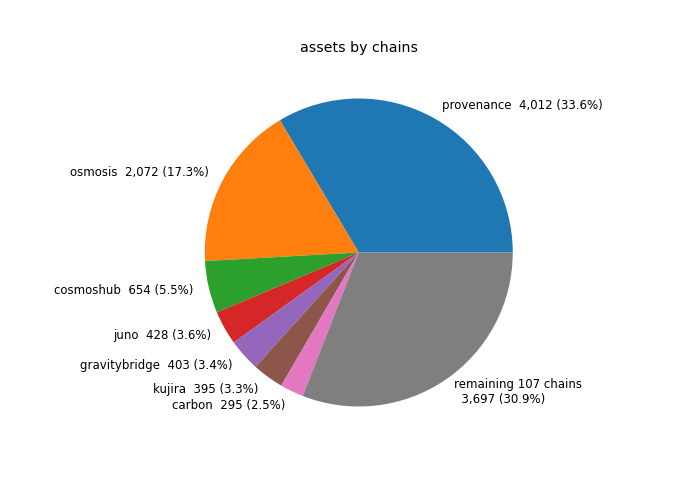
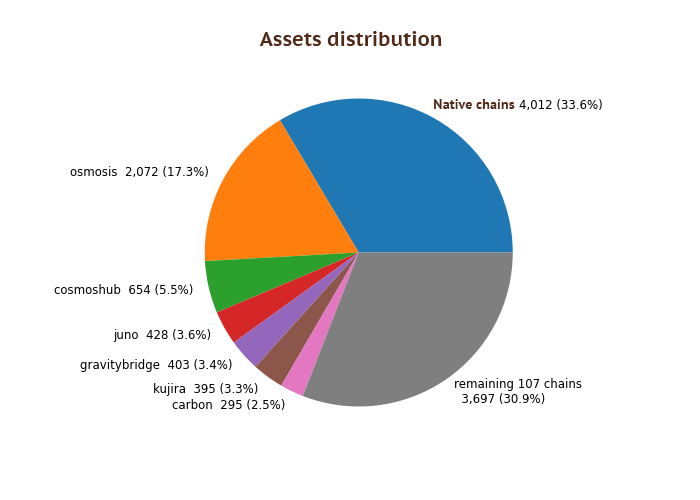
abstract and cosmetic changes of readme

Changed region(s): [[0.36, 0.06, 0.63, 0.12], [0.6, 0.18, 0.75, 0.24]]

diff --git a/README.md b/README.md
@@ -1,16 +1,13 @@
-# Asset List of Cosmos-SDK Based Chains
-The evolving blockchain ecosystem demands trustworthy data access and decentralised interoperability across all chains. 
-To meet this necessity, an On-Chain Registry (OCP) has been developed, specifically designed for Cosmos-SDK based chains. 
-This registry, acting as a unique access point, aggregates and handles data from all connected assets, 
-thereby laying the groundwork for a robust and efficient data infrastructure in the world of blockchain.
+# On-Chain Registry: Asset List of Cosmos-SDK Based Chains
+As assets shift between different chains within the Cosmos ecosystem and the broader cross-chain world, a clear and straightforward tool for tracking this data becomes necessary. The On-Chain Registry (OCR) gathers all the proof-of-nodes data for these assets as they navigate various chains, providing a real-time snapshot and comprehensive overview of the asset ecosystem.
 
-## Conceptualization
+## Proof-of-Nodes Conceptualization
 
-OCP is more than just a list; it's a dynamic, evolving, and self-sustaining system that fetches data directly from nodes. 
+OCR is more than just a list; it’s a dynamic, evolving, and self-sustaining protocol that fetches data directly from nodes.
 This mechanism leads to:
  - **Accuracy**: The registry furnishes complete and precise data, crucial for meaningful and successful blockchain transactions.
- - **Reliability**: By ruling out the chance of human error, the registry delivers consistent information that users can rely on.
- - **Inclusivity**: It leaves out no data not specified in the chains, thereby offering a comprehensive overview of the blockchain environment.
+ - **Reliability**: By ruling out the chance of human error, the registry delivers consistent information that users can rely on.
+ - **Inclusivity**: It leaves out no data not specified in the chains, thereby offering a comprehensive overview of the blockchain environment.
 
 <br>
 <p align="center">
@@ -19,15 +16,15 @@ This mechanism leads to:
 
 ## Functionality
 
-OCP provides an interface for updating, storing, and accessing data on-chain. 
+OCR provides an interface for updating, storing, and accessing data on-chain. 
 This enables it to dynamically adapt to the ever-changing state of the chains.
 
-API & IBC Tokens Verification. OCP functions as a robust and secure API, offering users the capability to verify 
+API & IBC Tokens Verification. OCR functions as a robust and secure API, offering users the capability to verify 
 Inter-Blockchain Communication (IBC) tokens with trusted and verified metadata. 
 This feature further enhances the transparency and security of cross-chain transactions.
 
 Integration of External Registries. In the pursuit of providing an all-encompassing data access point, 
-OCP integrates data from other registries as well. 
+OCR integrates data from other registries as well. 
 This guarantees that users have a comprehensive, unified, and updated view of the entire blockchain ecosystem.
 
 On-chain based data allows to view all existing assets:
